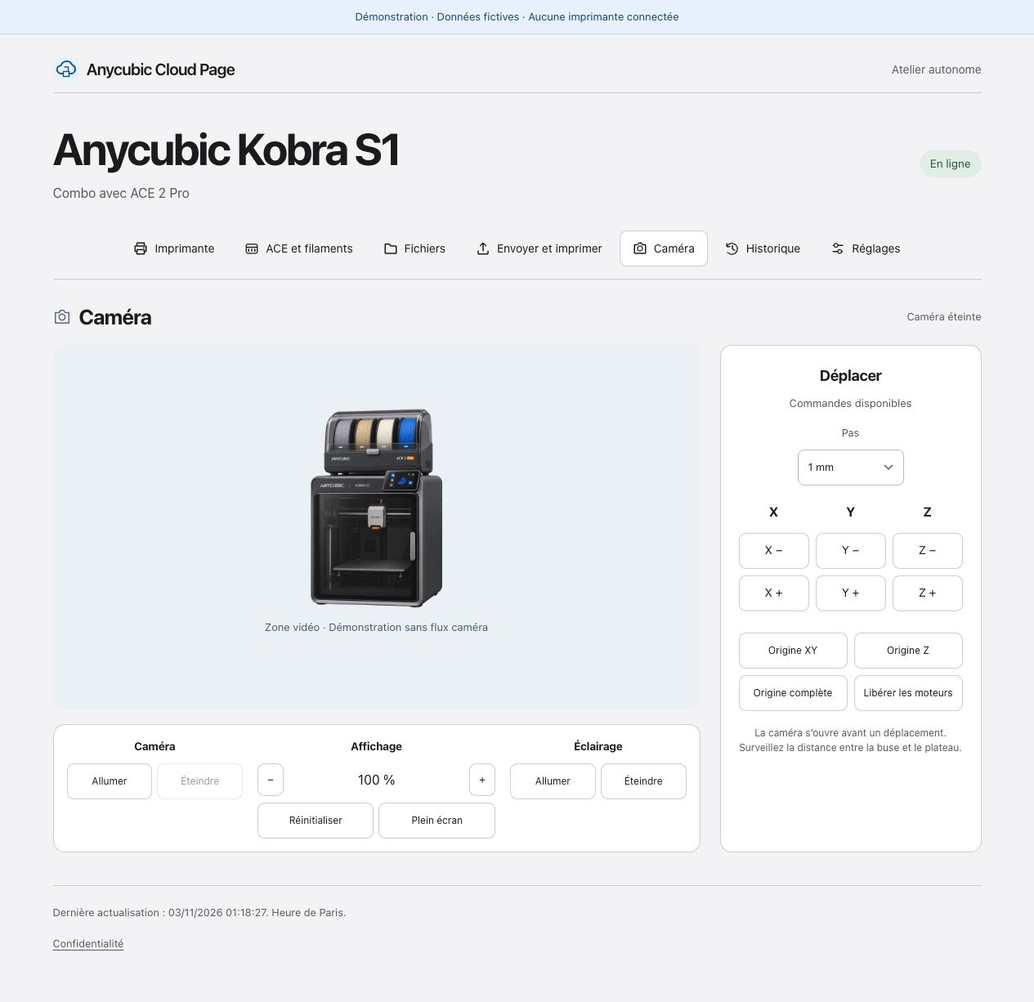
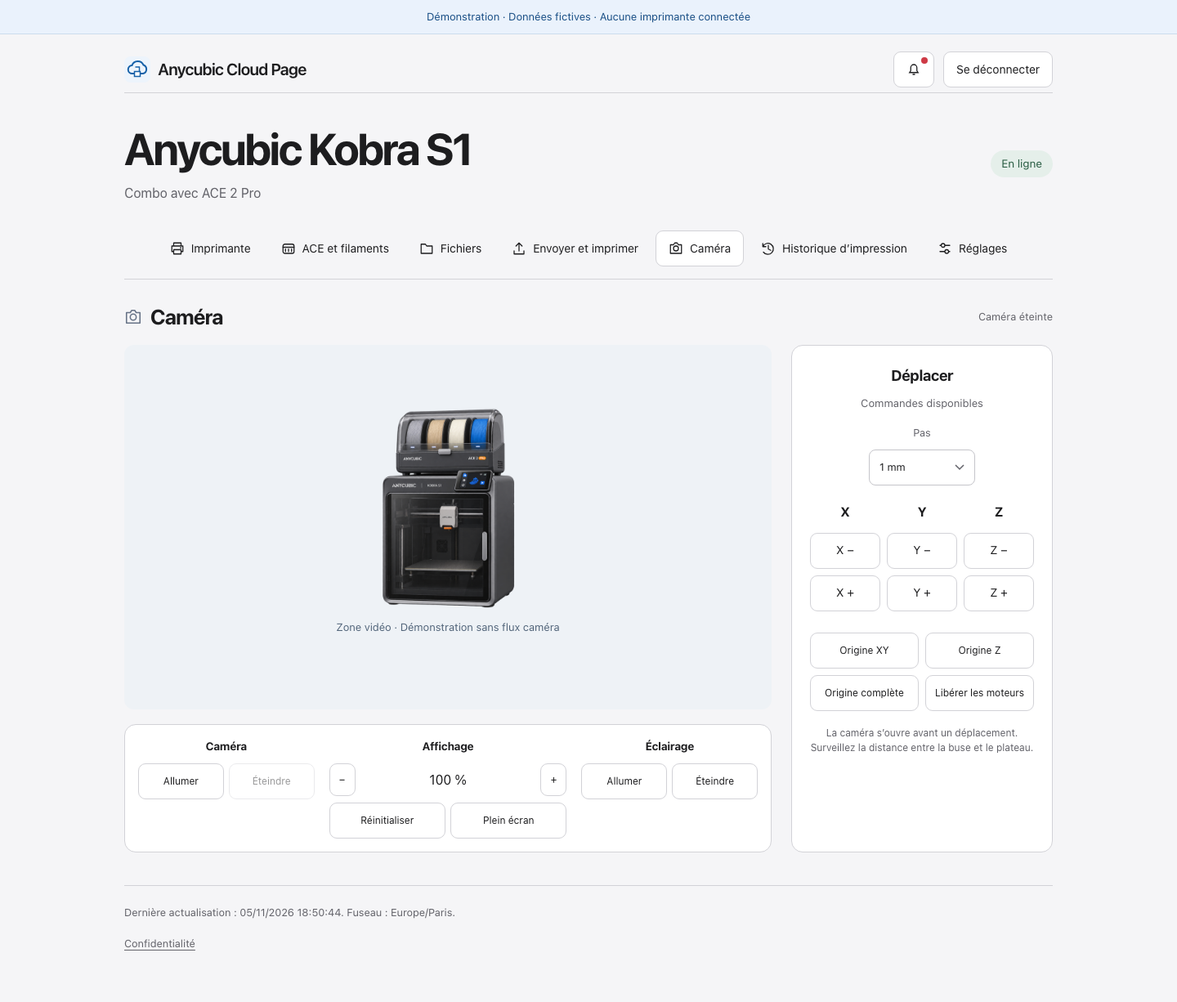
Interface : harmoniser les boutons et actualiser les captures fictives
Fixes #14

Fixes #15

Refs #16, #32

diff --git a/web/imprimante.html b/web/imprimante.html
@@ -1,7 +1,7 @@
-<!doctype html><html lang="fr"><head><meta charset="utf-8"><meta name="viewport" content="width=device-width,initial-scale=1"><meta name="robots" content="noindex,nofollow"><meta name="color-scheme" content="light"><title>Anycubic Cloud Page</title><link rel="icon" href="/icons/cloud-page.svg" type="image/svg+xml"><link rel="apple-touch-icon" href="/icons/cloud-page.svg"><link rel="stylesheet" href="/css/landing.css?v=a49ab0a5a00f"><link rel="stylesheet" href="/css/imprimante.css?v=55086da7788b"></head><body>
-<a class="skip-link" href="#atelier">Aller à l’imprimante</a><div class="shell printer-shell"><nav class="portal-nav" aria-label="Navigation principale"><a class="document-brand" href="/"><img src="/icons/cloud-page.svg" width="32" height="32" alt="" decoding="async"><span>Anycubic Cloud Page</span></a><div class="nav-actions"><label id="printer-selector-wrap" class="printer-selector" hidden><span class="sr-only">Imprimante</span><select id="printer-selector" aria-label="Imprimante"></select></label><div class="notifications"><button id="notifications-toggle" type="button" aria-label="Notifications" aria-expanded="false" aria-controls="notifications-panel"><svg viewBox="0 0 24 24" class="ui-icon" fill="none" stroke="currentColor" stroke-width="1.7" aria-hidden="true"><path d="M5 17h14l-2-3V9a5 5 0 0 0-10 0v5zM10 20h4"/></svg><span id="notifications-dot" class="unread-dot" hidden aria-hidden="true"></span></button><section id="notifications-panel" class="notifications-panel" aria-label="Messages" hidden><div class="notifications-heading"><h2 id="notifications-title">Messages (0)</h2><button id="history-read-all" type="button">Tout marquer comme lu</button></div><div class="notice-filters" role="group" aria-label="Filtrer les messages"><button data-notice-filter="all" aria-pressed="true" type="button">Tous</button><button data-notice-filter="unread" aria-pressed="false" type="button">Non lu <span id="notifications-filter-dot" class="unread-dot" hidden aria-hidden="true"></span></button><button data-notice-filter="read" aria-pressed="false" type="button">Lu</button></div><label class="notice-search"><span aria-hidden="true">⌕</span><span class="sr-only">Rechercher un message par nom de fichier</span><input id="notification-search" type="search" placeholder="Nom de fichier"></label><p id="history-state" role="status"></p><ol id="history-list" class="notification-list"></ol><button id="history-delete-all" type="button" class="danger">Supprimer tous les messages</button><button id="notifications-more" type="button" hidden>Charger les messages suivants</button></section></div><form action="/logout" method="post" class="logout-form"><button type="submit">Se déconnecter</button></form></div></nav>
+<!doctype html><html lang="fr"><head><meta charset="utf-8"><meta name="viewport" content="width=device-width,initial-scale=1"><meta name="robots" content="noindex,nofollow"><meta name="color-scheme" content="light"><title>Anycubic Cloud Page</title><link rel="icon" href="/icons/cloud-page.svg" type="image/svg+xml"><link rel="apple-touch-icon" href="/icons/cloud-page.svg"><link rel="stylesheet" href="/css/landing.css?v=a49ab0a5a00f"><link rel="stylesheet" href="/css/imprimante.css?v=f6407560130c"></head><body>
+<a class="skip-link" href="#atelier">Aller à l’imprimante</a><div class="shell printer-shell"><nav class="portal-nav" aria-label="Navigation principale"><a class="document-brand" href="/"><img src="/icons/cloud-page.svg" width="32" height="32" alt="" decoding="async"><span>Anycubic Cloud Page</span></a><div class="nav-actions"><label id="printer-selector-wrap" class="printer-selector" hidden><span class="sr-only">Imprimante</span><select id="printer-selector" aria-label="Imprimante"></select></label><div class="notifications"><button id="notifications-toggle" type="button" aria-label="Notifications" aria-expanded="false" aria-controls="notifications-panel"><svg viewBox="0 0 24 24" class="ui-icon" fill="none" stroke="currentColor" stroke-width="1.7" aria-hidden="true"><path d="M5 17h14l-2-3V9a5 5 0 0 0-10 0v5zM10 20h4"/></svg><span id="notifications-dot" class="unread-dot" hidden aria-hidden="true"></span></button><section id="notifications-panel" class="notifications-panel" aria-label="Messages" hidden><div class="notifications-heading"><h2 id="notifications-title">Messages (0)</h2><button id="history-read-all" type="button">Tout marquer comme lu</button></div><div class="notice-filters" role="group" aria-label="Filtrer les messages"><button data-notice-filter="all" aria-pressed="true" type="button">Tous</button><button data-notice-filter="unread" aria-pressed="false" type="button">Non lu <span id="notifications-filter-dot" class="unread-dot" hidden aria-hidden="true"></span></button><button data-notice-filter="read" aria-pressed="false" type="button">Lu</button></div><label class="notice-search"><svg viewBox="0 0 24 24" fill="none" stroke="currentColor" stroke-width="1.6" aria-hidden="true"><circle cx="10" cy="10" r="6"/><path d="m15 15 5 5"/></svg><span class="sr-only">Rechercher un message par nom de fichier</span><input id="notification-search" type="search" placeholder="Nom de fichier"></label><p id="history-state" role="status"></p><ol id="history-list" class="notification-list"></ol><button id="history-delete-all" type="button" class="danger">Supprimer tous les messages</button><button id="notifications-more" type="button" hidden>Charger les messages suivants</button></section></div><form action="/logout" method="post" class="logout-form"><button type="submit">Se déconnecter</button></form></div></nav>
 <header class="atelier-title"><div><h1>Anycubic Kobra S1</h1><p>Combo avec ACE 2 Pro</p></div><div><span id="connection" class="badge">Connexion…</span></div></header>
-<nav class="atelier-tabs" aria-label="Sections de l’imprimante"><button type="button" data-tab="overview" aria-current="page"><svg class="ui-icon" viewBox="0 0 24 24" fill="none" stroke="currentColor" stroke-width="1.7" stroke-linecap="round" stroke-linejoin="round" aria-hidden="true"><path d="M6 8V3h12v5M6 17H3V8h18v9h-3M6 14h12v7H6z"/><path d="M17 11h1"/></svg><span>Imprimante</span></button><button type="button" data-tab="ace"><svg class="ui-icon" viewBox="0 0 24 24" fill="none" stroke="currentColor" stroke-width="1.7" stroke-linecap="round" stroke-linejoin="round" aria-hidden="true"><rect x="3" y="5" width="18" height="15" rx="3"/><path d="M3 10h18M7 13v4m5-4v4m5-4v4"/></svg><span>ACE et filaments</span></button><button type="button" data-tab="files"><svg class="ui-icon" viewBox="0 0 24 24" fill="none" stroke="currentColor" stroke-width="1.7" stroke-linecap="round" stroke-linejoin="round" aria-hidden="true"><path d="M3 7V5h7l2 3h9v12H3z"/></svg><span>Fichiers</span></button><button type="button" data-tab="upload"><svg class="ui-icon" viewBox="0 0 24 24" fill="none" stroke="currentColor" stroke-width="1.7" stroke-linecap="round" stroke-linejoin="round" aria-hidden="true"><path d="M12 16V3m-5 5 5-5 5 5M4 16v5h16v-5"/></svg><span>Envoyer et imprimer</span></button><button type="button" data-tab="camera"><svg class="ui-icon" viewBox="0 0 24 24" fill="none" stroke="currentColor" stroke-width="1.7" stroke-linecap="round" stroke-linejoin="round" aria-hidden="true"><path d="M8 6l2-3h4l2 3h5v14H3V6z"/><circle cx="12" cy="12" r="4"/></svg><span>Caméra</span></button><button type="button" data-tab="history"><svg class="ui-icon" viewBox="0 0 24 24" fill="none" stroke="currentColor" stroke-width="1.7" stroke-linecap="round" stroke-linejoin="round" aria-hidden="true"><path d="M3 4v5h5M3 9a9 9 0 1 1 1 9M12 7v6l4 2"/></svg><span>Historique</span></button><button type="button" data-tab="settings"><svg class="ui-icon" viewBox="0 0 24 24" fill="none" stroke="currentColor" stroke-width="1.7" stroke-linecap="round" stroke-linejoin="round" aria-hidden="true"><path d="M4 7h16M4 17h16"/><circle cx="9" cy="7" r="3" fill="white"/><circle cx="15" cy="17" r="3" fill="white"/></svg><span>Réglages</span></button></nav>
+<nav class="atelier-tabs" aria-label="Sections de l’imprimante"><button type="button" data-tab="overview" aria-current="page"><svg class="ui-icon" viewBox="0 0 24 24" fill="none" stroke="currentColor" stroke-width="1.7" stroke-linecap="round" stroke-linejoin="round" aria-hidden="true"><path d="M6 8V3h12v5M6 17H3V8h18v9h-3M6 14h12v7H6z"/><path d="M17 11h1"/></svg><span>Imprimante</span></button><button type="button" data-tab="ace"><svg class="ui-icon" viewBox="0 0 24 24" fill="none" stroke="currentColor" stroke-width="1.7" stroke-linecap="round" stroke-linejoin="round" aria-hidden="true"><rect x="3" y="5" width="18" height="15" rx="3"/><path d="M3 10h18M7 13v4m5-4v4m5-4v4"/></svg><span>ACE et filaments</span></button><button type="button" data-tab="files"><svg class="ui-icon" viewBox="0 0 24 24" fill="none" stroke="currentColor" stroke-width="1.7" stroke-linecap="round" stroke-linejoin="round" aria-hidden="true"><path d="M3 7V5h7l2 3h9v12H3z"/></svg><span>Fichiers</span></button><button type="button" data-tab="upload"><svg class="ui-icon" viewBox="0 0 24 24" fill="none" stroke="currentColor" stroke-width="1.7" stroke-linecap="round" stroke-linejoin="round" aria-hidden="true"><path d="M12 16V3m-5 5 5-5 5 5M4 16v5h16v-5"/></svg><span>Envoyer et imprimer</span></button><button type="button" data-tab="camera"><svg class="ui-icon" viewBox="0 0 24 24" fill="none" stroke="currentColor" stroke-width="1.7" stroke-linecap="round" stroke-linejoin="round" aria-hidden="true"><path d="M8 6l2-3h4l2 3h5v14H3V6z"/><circle cx="12" cy="12" r="4"/></svg><span>Caméra</span></button><button type="button" data-tab="history"><svg class="ui-icon" viewBox="0 0 24 24" fill="none" stroke="currentColor" stroke-width="1.7" stroke-linecap="round" stroke-linejoin="round" aria-hidden="true"><path d="M3 4v5h5M3 9a9 9 0 1 1 1 9M12 7v6l4 2"/></svg><span>Historique d’impression</span></button><button type="button" data-tab="settings"><svg class="ui-icon" viewBox="0 0 24 24" fill="none" stroke="currentColor" stroke-width="1.7" stroke-linecap="round" stroke-linejoin="round" aria-hidden="true"><path d="M4 7h16M4 17h16"/><circle cx="9" cy="7" r="3" fill="white"/><circle cx="15" cy="17" r="3" fill="white"/></svg><span>Réglages</span></button></nav>
 <div id="message" class="notice" role="status" hidden><span id="message-text"></span><button type="button" id="message-close" aria-label="Fermer le message">Fermer</button></div><main id="atelier">
 <section id="tab-overview" class="tab-panel"><div class="overview-grid"><div class="product"><img src="/icons/kobra-s1-ace2pro.png" alt="Kobra S1 Combo avec ACE 2 Pro" width="380" height="380"></div><div class="overview-content"><div class="job-heading"><div><p id="printer-status" class="status">Chargement…</p><h2 id="job-name" tabindex="0">L’imprimante se connecte.</h2><p id="job-state" class="muted"></p></div><img id="job-preview" alt="Aperçu de l’impression" hidden></div><div id="job-progress-wrap" hidden><label for="job-progress">Progression <strong id="job-progress-text"></strong></label><progress id="job-progress" value="0" max="100"></progress></div><dl id="job-stats" class="stats"></dl><div class="actions"><button data-command="pause" data-confirm="Mettre l’impression en pause ?"><svg class="ui-icon" viewBox="0 0 24 24" fill="none" stroke="currentColor" stroke-width="1.7" stroke-linecap="round" stroke-linejoin="round" aria-hidden="true"><path d="M8 5v14M16 5v14"/></svg><span>Pause</span></button><button data-command="resume" data-confirm="Reprendre l’impression ?"><svg class="ui-icon" viewBox="0 0 24 24" fill="none" stroke="currentColor" stroke-width="1.7" stroke-linecap="round" stroke-linejoin="round" aria-hidden="true"><path d="m8 4 12 8-12 8z"/></svg><span>Reprendre</span></button><button class="danger" data-command="cancel" data-confirm="Arrêter l’impression en cours ? Cette action ne reprend pas le travail arrêté."><svg class="ui-icon" viewBox="0 0 24 24" fill="none" stroke="currentColor" stroke-width="1.7" stroke-linecap="round" stroke-linejoin="round" aria-hidden="true"><rect x="5" y="5" width="14" height="14" rx="2"/></svg><span>Arrêter</span></button><button type="button" id="task-details-open" title="Consulter les dimensions, la consommation et les paramètres du G-code."><svg class="ui-icon" viewBox="0 0 24 24" fill="none" stroke="currentColor" stroke-width="1.7" aria-hidden="true"><circle cx="12" cy="12" r="9"/><path d="M12 11v6m0-10v1"/></svg><span>Détails</span></button></div></div></div><div class="printer-lower-grid"><section><h2 class="icon-heading"><svg class="ui-icon" viewBox="0 0 24 24" fill="none" stroke="currentColor" stroke-width="1.7" stroke-linecap="round" stroke-linejoin="round" aria-hidden="true"><path d="M9 14.5V5a3 3 0 0 1 6 0v9.5a5 5 0 1 1-6 0Z"/><path d="M12 8v10"/></svg><span>Températures et ventilation</span></h2><dl id="temperatures" class="metrics"></dl></section><section><h2 class="icon-heading"><svg class="ui-icon" viewBox="0 0 24 24" fill="none" stroke="currentColor" stroke-width="1.7" stroke-linecap="round" stroke-linejoin="round" aria-hidden="true"><circle cx="12" cy="12" r="9"/><path d="M12 11v6m0-10v1"/></svg><span>Détails de l’impression et du matériel</span></h2><dl id="details" class="detail-list"></dl></section></div><section class="temperature-section" aria-label="Historique des températures"><div class="section-title"><div><h2 class="icon-heading"><svg class="ui-icon" viewBox="0 0 24 24" fill="none" stroke="currentColor" stroke-width="1.7" aria-hidden="true"><path d="M3 3v18h18M5 16l5-6 4 3 6-8"/></svg><span>Courbes de température</span></h2><p class="muted" id="temperature-note">Les relevés sont conservés pendant 24 heures sur la page web.</p></div><div class="chart-period"><select id="temperature-hours" aria-label="Période des courbes"><option value="1">Période : 1 heure</option><option value="6">Période : 6 heures</option><option value="24">Période : 24 heures</option></select></div></div><div class="temperature-charts"><article class="temperature-card"><div class="temperature-card-title"><h3>Buse</h3><strong id="temperature-nozzle-current">—</strong></div><div id="chart-nozzle" class="temperature-plot"></div></article><article class="temperature-card"><div class="temperature-card-title"><h3>Plateau</h3><strong id="temperature-bed-current">—</strong></div><div id="chart-bed" class="temperature-plot"></div></article><article class="temperature-card"><div class="temperature-card-title"><h3>ACE 2 Pro</h3><strong id="temperature-ace-current">—</strong></div><div id="chart-ace" class="temperature-plot"></div></article></div></section></section>
 <section id="tab-ace" class="tab-panel" hidden><div class="overview-grid ace-overview"><div class="product"><img src="/icons/ace2pro.png" width="380" height="300" alt="Module quatre bobines Anycubic ACE 2 Pro"></div><div class="overview-content"><p id="ace-status" class="status">Connexion au module…</p><h2>ACE 2 Pro</h2><p class="muted">Quatre emplacements de filament et séchage intégré.</p><dl id="ace-stats" class="stats"></dl><div class="actions"><button type="button" id="go-spool"><svg class="ui-icon" viewBox="0 0 24 24" fill="none" stroke="currentColor" stroke-width="1.7" stroke-linecap="round" stroke-linejoin="round" aria-hidden="true"><circle cx="12" cy="12" r="9"/><circle cx="12" cy="12" r="3"/><path d="M21 12v9h-5"/></svg><span>Configurer une bobine</span></button><button type="button" id="go-drying"><svg class="ui-icon" viewBox="0 0 24 24" fill="none" stroke="currentColor" stroke-width="1.7" stroke-linecap="round" stroke-linejoin="round" aria-hidden="true"><path d="M6 21c-6-6 6-9 0-15M12 21c-6-6 6-9 0-15M18 21c-6-6 6-9 0-15"/></svg><span>Régler le séchage</span></button></div></div></div><h2 class="icon-heading"><svg class="ui-icon" viewBox="0 0 24 24" fill="none" stroke="currentColor" stroke-width="1.7" stroke-linecap="round" stroke-linejoin="round" aria-hidden="true"><circle cx="12" cy="12" r="9"/><circle cx="12" cy="12" r="3"/><path d="M21 12v9h-5"/></svg><span>Filaments</span></h2><div id="spools" class="slots"></div></section>
@@ -9,7 +9,7 @@
 <form id="files-form" class="file-toolbar"><label>Dossier<input id="file-path" value="/" autocomplete="off"></label><button type="submit">Actualiser la liste</button><button type="button" id="parent-folder">Dossier parent</button></form><p id="files-state" class="muted">Sélectionnez une source puis actualisez la liste.</p><div class="table-scroll" role="region" aria-label="Liste des fichiers" tabindex="0"><table><thead><tr><th scope="col">Fichier</th><th scope="col">Taille</th><th scope="col">Actions</th></tr></thead><tbody id="file-rows"></tbody></table></div><div class="actions"><button id="prev-page">Page précédente</button><span id="cloud-page"></span><button id="next-page">Page suivante</button></div><form id="file-mapping-form" class="form-panel"><label>Ordre des bobines pour l’impression<input id="file-slots" placeholder="Exemple : 1, 3, 2" autocomplete="off"></label><p class="muted">Un emplacement par couleur, dans l’ordre du G-code.</p></form></section>
 <section id="tab-upload" class="tab-panel" hidden><div class="section-title"><div><h2 class="icon-heading"><svg class="ui-icon" viewBox="0 0 24 24" fill="none" stroke="currentColor" stroke-width="1.7" aria-hidden="true"><path d="M12 16V3m-5 5 5-5 5 5M4 16v5h16v-5"/></svg><span>Envoyer et imprimer</span></h2><p class="muted">Ajoutez un G-code au cloud ou envoyez-le à l’imprimante.</p></div></div><form id="upload-form" class="form-panel"><label class="upload-file">Fichier G-code<span class="muted">Choisissez un fichier .gcode de 100 Mo maximum.</span><input name="file" type="file" accept=".gcode" required></label><div class="upload-options"><label>Action<select name="mode"><option value="upload">Enregistrer dans le cloud, sans imprimer</option><option value="save-print">Envoyer, conserver dans le cloud et imprimer</option><option value="temp-print">Envoyer et imprimer, sans conservation dans le cloud</option></select></label><label>Ordre des bobines<input name="slots" placeholder="Exemple : 1, 3, 2"></label></div><p class="muted">Indiquez un emplacement de l’ACE par couleur, dans l’ordre du G-code.</p><button type="submit" class="primary">Envoyer</button><p id="upload-state" role="status"></p></form></section>
 <section id="tab-camera" class="tab-panel" hidden><div class="camera-heading"><h2 class="icon-heading"><svg class="ui-icon" viewBox="0 0 24 24" fill="none" stroke="currentColor" stroke-width="1.7" stroke-linecap="round" stroke-linejoin="round" aria-hidden="true"><path d="M8 6l2-3h4l2 3h5v14H3V6z"/><circle cx="12" cy="12" r="4"/></svg><span>Caméra</span></h2><p id="camera-state" role="status">Caméra éteinte</p></div><div class="camera-layout"><div class="camera-stage"><div id="camera-wrapper"><div id="camera-video"></div></div></div><aside class="camera-controls" aria-label="Commandes de la caméra"><div class="camera-control-group"><h3>Caméra</h3><div class="camera-buttons"><button id="camera-start">Allumer</button><button id="camera-stop" disabled>Éteindre</button></div></div><div class="camera-control-group"><h3>Affichage</h3><div class="camera-zoom"><button id="zoom-out" aria-label="Réduire le zoom">−</button><span id="zoom-label">100 %</span><button id="zoom-in" aria-label="Augmenter le zoom">+</button></div><div class="camera-buttons"><button id="zoom-reset">Réinitialiser</button><button id="fullscreen">Plein écran</button></div></div><div class="camera-control-group"><h3>Éclairage</h3><div class="camera-buttons"><button id="light-on">Allumer</button><button id="light-off">Éteindre</button></div></div></aside><section class="axis-card form-panel"><div class="section-title"><div><h3>Déplacer</h3><p id="axis-state" class="muted">En attente de l’imprimante</p></div><label>Pas<select id="axis-step"><option value="1">1 mm</option><option value="15">15 mm</option><option value="50">50 mm</option></select></label></div><div class="axis-grid"><div><h4>X</h4><button type="button" data-axis="1" data-direction="0" title="Déplacer la tête vers X négatif.">X −</button><button type="button" data-axis="1" data-direction="1" title="Déplacer la tête vers X positif.">X +</button></div><div><h4>Y</h4><button type="button" data-axis="2" data-direction="0" title="Déplacer la tête vers Y négatif.">Y −</button><button type="button" data-axis="2" data-direction="1" title="Déplacer la tête vers Y positif.">Y +</button></div><div><h4>Z</h4><button type="button" data-axis="3" data-direction="0" title="Déplacer le plateau dans le sens Z négatif de la Kobra S1.">Z −</button><button type="button" data-axis="3" data-direction="1" title="Déplacer le plateau dans le sens Z positif de la Kobra S1.">Z +</button></div></div><div class="actions axis-home"><button type="button" data-axis="4" data-direction="2" title="Référencer les axes X et Y.">Origine XY</button><button type="button" data-axis="3" data-direction="2" title="Référencer l’axe Z.">Origine Z</button><button type="button" data-axis="5" data-direction="2" title="Référencer les trois axes.">Origine complète</button><button type="button" id="axis-release" title="Désactiver les moteurs pour permettre un déplacement manuel.">Libérer les moteurs</button></div><p class="settings-help">La caméra s’ouvre avant un déplacement. Surveillez la distance entre la buse et le plateau.</p></section></div><section class="form-panel timelapse-panel" hidden><div class="section-title"><h3>▣ Timelapse</h3><button id="timelapse-load" type="button">Afficher les vidéos</button></div><p id="timelapse-state" class="muted">Les vidéos disponibles seront demandées à l’imprimante.</p><div id="timelapse-list"></div></section></section>
-<section id="tab-history" class="tab-panel" hidden><div class="section-title"><div><h2 class="icon-heading"><svg class="ui-icon" viewBox="0 0 24 24" fill="none" stroke="currentColor" stroke-width="1.7" stroke-linecap="round" stroke-linejoin="round" aria-hidden="true"><path d="M3 4v5h5M3 9a9 9 0 1 1 1 9M12 7v6l4 2"/></svg><span>Historique</span></h2><p class="muted">Vos impressions et les notifications Anycubic.</p></div></div><section id="tasks-section"><div class="history-filters"><div class="history-status" role="group" aria-label="Statut des impressions"><button type="button" data-task-status="all" aria-pressed="true">Tout</button><button type="button" data-task-status="2" aria-pressed="false">Terminé</button><button type="button" data-task-status="3" aria-pressed="false">Arrêté</button><button type="button" data-task-status="1" aria-pressed="false">En cours</button></div><div class="history-search-fields"><label>Appareil<select id="tasks-printer"><option value="all">Tous les appareils</option></select></label><label>Du<input id="tasks-from" type="date"></label><label>Au<input id="tasks-to" type="date"></label><label>Nom du fichier<input id="tasks-search" type="search" placeholder="Rechercher une impression"></label></div></div><div class="history-selection"><label><input id="tasks-select-page" type="checkbox"> Tout sélectionner</label><span id="tasks-selected-count">0 sélection</span><button id="tasks-delete" class="danger" type="button" disabled>Supprimer la sélection</button></div><p id="tasks-state" class="muted" role="status"></p><ol id="tasks-list" class="print-history history-grid"></ol><div class="history-pagination"><span id="tasks-page"></span><button id="tasks-next" type="button">Charger les impressions suivantes</button></div></section></section>
+<section id="tab-history" class="tab-panel" hidden><div class="section-title"><div><h2 class="icon-heading"><svg class="ui-icon" viewBox="0 0 24 24" fill="none" stroke="currentColor" stroke-width="1.7" stroke-linecap="round" stroke-linejoin="round" aria-hidden="true"><path d="M3 4v5h5M3 9a9 9 0 1 1 1 9M12 7v6l4 2"/></svg><span>Historique d’impression</span></h2><p class="muted">Vos impressions, leurs aperçus et leurs détails.</p></div></div><section id="tasks-section"><div class="history-filters"><div class="history-status" role="group" aria-label="Statut des impressions"><button type="button" data-task-status="all" aria-pressed="true">Tout</button><button type="button" data-task-status="2" aria-pressed="false">Terminé</button><button type="button" data-task-status="3" aria-pressed="false">Arrêté</button><button type="button" data-task-status="1" aria-pressed="false">En cours</button></div><div class="history-search-fields"><label>Appareil<select id="tasks-printer"><option value="all">Tous les appareils</option></select></label><label>Du<input id="tasks-from" type="date"></label><label>Au<input id="tasks-to" type="date"></label><label>Nom du fichier<input id="tasks-search" type="search" placeholder="Rechercher une impression"></label></div></div><div class="history-selection"><label><input id="tasks-select-page" type="checkbox"> Tout sélectionner</label><span id="tasks-selected-count">0 sélection</span><button id="tasks-delete" class="danger" type="button" disabled>Supprimer la sélection</button></div><p id="tasks-state" class="muted" role="status"></p><ol id="tasks-list" class="print-history history-grid"></ol><div class="history-pagination"><span id="tasks-page"></span><button id="tasks-next" type="button">Charger les impressions suivantes</button></div></section></section>
 <section id="tab-settings" class="tab-panel" hidden>
 <div class="section-title settings-title"><div><h2 class="icon-heading"><svg class="ui-icon" viewBox="0 0 24 24" fill="none" stroke="currentColor" stroke-width="1.7" stroke-linecap="round" stroke-linejoin="round" aria-hidden="true"><path d="M4 7h16M4 17h16"/><circle cx="9" cy="7" r="3" fill="white"/><circle cx="15" cy="17" r="3" fill="white"/></svg><span>Réglages</span></h2><p class="muted">Votre imprimante, sa connexion et ses préférences.</p></div></div>
 <div class="settings-layout">

diff --git a/web/css/imprimante.css b/web/css/imprimante.css
@@ -105,7 +105,7 @@ dialog h2{overflow-wrap:anywhere}.file-preview-dialog .dialog-top{align-items:fl
 .login-card button{margin-top:12px;min-height:46px}
 .login-note{font-size:.82rem;color:var(--muted);margin:24px 0 0}
 .login-error{padding:12px;border:1px solid #dfb5ad;border-radius:10px;color:#853b31;background:#fff4f1}
-.logout-form{margin:0}.logout-form button{font:inherit;color:var(--muted);background:transparent;border:0;padding:4px;cursor:pointer;text-decoration:underline;text-underline-offset:3px}
+.logout-form{margin:0}
 
 /* La barre conserve la marque à gauche et les actions de session au bord droit. */
 .nav-actions{display:flex;align-items:center;gap:.7rem;margin-left:auto}.portal-nav .logout-form{margin:0}.portal-nav .logout-form button{white-space:nowrap}
@@ -118,7 +118,7 @@ dialog h2{overflow-wrap:anywhere}.file-preview-dialog .dialog-top{align-items:fl
 .notification-delete{flex:0 0 32px;min-height:32px;padding:4px;color:#aa3641;background:transparent;border:1px solid #ead4d7;border-radius:8px}
 
 /* Les cartes conservent un ordre de lecture unique du bureau au mobile. */
-.history-filters{display:grid;gap:16px;margin-bottom:18px}.history-status,.history-selection{display:flex;gap:12px;align-items:center;flex-wrap:wrap}.history-status [aria-pressed=true]{background:#e7f0fc;border-color:#7ba5cf}.history-search-fields{display:grid;grid-template-columns:repeat(4,minmax(0,1fr));gap:12px}.history-search-fields label{display:grid;gap:6px;font-size:.85rem}.history-search-fields input,.history-search-fields select{width:100%;min-width:0}.history-selection{margin:16px 0}.history-selection label{display:flex;align-items:center;gap:6px}.history-selection input,.history-card-select input{width:18px;height:18px}.history-grid{display:grid;grid-template-columns:repeat(auto-fit,minmax(250px,1fr));gap:16px;list-style:none;padding:0}.history-grid .task-history-item{position:relative;display:flex;flex-direction:column;min-width:0;padding:16px;border:1px solid #d9e1eb;border-radius:16px;background:#fff}.history-card-select{align-self:flex-start;margin-bottom:8px}.history-grid .task-thumbnail{width:100%;height:150px}.history-card-body{display:flex;flex-direction:column;gap:8px;margin-top:12px}.history-card-body p{margin:0;font-size:.82rem}.history-card-name{overflow:hidden;text-overflow:ellipsis;white-space:nowrap}.history-badge{align-self:flex-start;border-radius:20px;padding:4px 10px;background:#edf0f3;font-size:.8rem}.history-badge.status-2{background:#e4f3e9;color:#23663d}.history-badge.status-3{background:#f9e6e8;color:#9d2838}.history-badge.status-1{background:#e0edff;color:#225a9b}.history-detail{align-self:flex-start;margin-top:6px}
+.history-filters{display:grid;gap:16px;margin-bottom:18px}.history-status,.history-selection{display:flex;gap:12px;align-items:center;flex-wrap:wrap}.history-status [aria-pressed=true]{background:#e7f0fc;border-color:#7ba5cf}.history-search-fields{display:grid;grid-template-columns:repeat(4,minmax(0,1fr));gap:12px}.history-search-fields label{display:grid;gap:6px;font-size:.85rem}.history-search-fields input,.history-search-fields select{width:100%;min-width:0}.history-selection{margin:16px 0}.history-selection label{display:flex;align-items:center;gap:6px}.history-selection input,.history-card-select input{width:18px;height:18px}.history-grid{display:grid;grid-template-columns:repeat(auto-fit,minmax(250px,1fr));gap:16px;list-style:none;padding:0}.history-grid .task-history-item{position:relative;display:flex;flex-direction:column;min-width:0;padding:16px;border:1px solid #d9e1eb;border-radius:16px;background:#fff}.history-card-select{align-self:flex-start;margin-bottom:8px}.history-grid .task-thumbnail{width:100%;height:150px}.history-card-body{display:flex;flex-direction:column;gap:8px;margin-top:12px}.history-card-body p{margin:0;font-size:.82rem}.history-card-name{overflow:hidden;text-overflow:ellipsis;white-space:nowrap}.history-badge{align-self:flex-start;border-radius:20px;padding:4px 10px;background:#edf0f3;font-size:.8rem}.history-badge.status-2{background:#e4f3e9;color:#23663d}.history-badge.status-3{background:#f9e6e8;color:#9d2838}.history-badge.status-1{background:#e0edff;color:#225a9b}.history-detail{align-self:center;margin-top:6px}
 @media(max-width:640px){.history-search-fields{grid-template-columns:repeat(2,minmax(0,1fr))}.history-grid{grid-template-columns:1fr}}
 
 /* Une boîte dessinée pour l’atelier donne un repère décoratif aux listes vides. */
@@ -126,3 +126,6 @@ dialog h2{overflow-wrap:anywhere}.file-preview-dialog .dialog-top{align-items:fl
 
 /* Le sélecteur disparaît avec une seule machine ; il reste compact dans la barre sur mobile. */
 .printer-selector select{max-width:210px;min-height:36px;padding:5px 8px;font-size:.8rem}.printer-selector[hidden]{display:none}@media(max-width:640px){.printer-selector select{max-width:125px}.portal-nav{flex-wrap:wrap}}
+
+/* Les styles généraux de libellé et de bouton ne doivent ni empiler les filtres ni rogner les aperçus. */
+.history-selection label,.notice-search{flex-direction:row}.history-status [aria-pressed=true],.notice-filters [aria-pressed=true]{color:#204f7b}.history-grid .task-thumbnail{display:flex;align-items:center;justify-content:center;flex:0 0 150px}.history-grid .task-thumbnail img{width:100%;height:132px;max-height:132px;object-fit:contain}.printer-selector select{padding-right:32px}.notice-search svg{width:20px;height:20px;flex:0 0 20px}

diff --git a/screenshots/README.md b/screenshots/README.md
@@ -1,6 +1,6 @@
 # Captures de l’interface
 
-Captures du mode `python app/demo.py`, avec actualisation de la connexion et de la session le 5 novembre 2026. Toutes les données sont fictives. Aucun compte utilisateur, token, identifiant d’imprimante ou flux vidéo privé n’est visible.
+Captures de la démonstration authentifiée, produites avec `scripts/capture_demo.cjs`. Toutes les données sont fictives. Aucun compte utilisateur, token, identifiant d’imprimante ou flux vidéo privé n’est visible.
 
 | Capture | Onglet / détail |
 | --- | --- |
@@ -11,11 +11,11 @@ Captures du mode `python app/demo.py`, avec actualisation de la connexion et de 
 | [03-fichiers.png](03-fichiers.png) | Navigation et actions sur les fichiers. |
 | [04-envoyer-imprimer.png](04-envoyer-imprimer.png) | Envoi de G-code et ordre des bobines. |
 | [05-camera.png](05-camera.png) | Lecteur, éclairage et axes ; illustration de démonstration, pas un flux réel. |
-| [06-historique.png](06-historique.png) | Tâches et aperçus. |
+| [06-historique.png](06-historique.png) | Cartes, statuts, dates, recherche et sélection de fiches. |
 | [07-reglages.png](07-reglages.png) | Connexion, versions et réglages. |
-| [08-notifications.png](08-notifications.png) | Notifications et aperçu associé. |
+| [08-notifications.png](08-notifications.png) | Cloche, compteurs, filtres, recherche et actions sur les messages. |
 | [09-detection-ia.png](09-detection-ia.png) | Fenêtre de détection IA. |
 
-Pour les refaire : lancer le mode démonstration, parcourir chaque onglet dans un navigateur, attendre les aperçus visibles puis enregistrer une capture de page entière. Utiliser une capture de fenêtre pour les modales. Ne pas utiliser le compte réel pour produire les images publiques.
+Pour les refaire : installer les dépendances de développement et Chromium Playwright, puis lancer `node scripts/capture_demo.cjs` depuis la racine. Le script démarre uniquement `app/demo.py --auth`, crée un fichier temporaire de mot de passe fictif et ferme ce serveur après capture. `UI_PYTHON` permet de choisir l’interpréteur Python du projet. Aucun moteur Docker n’est nécessaire.
 
-Les deux nouvelles captures utilisent `python app/demo.py --auth` avec un fichier de mot de passe fictif passé par `WEB_PASSWORD_FILE` et `PUBLIC_ORIGIN` égal à l’origine locale du navigateur. Elles n’utilisent aucun compte réel. Le mode sans `--auth` reste disponible pour explorer les données fictives.
+La capture de session présente deux noms d’imprimantes fictifs pour illustrer le sélecteur. Le navigateur des captures utilise le français. Les modales sont capturées dans la fenêtre ; les onglets en page entière. Ne jamais utiliser un compte réel pour produire les images publiques.

diff --git a/CHANGELOG.md b/CHANGELOG.md
@@ -16,7 +16,7 @@
 
 - Notifications déplacées dans une cloche accessible, avec filtres, recherche et compteur actualisé par le statut habituel (#16).
 
-- Bouton de déconnexion accessible dans la barre du haut ; HOME_URL ne pilote plus que le lien de marque (#14).
+- Bouton de déconnexion accessible, assorti aux autres actions de la barre du haut ; HOME_URL ne pilote plus que le lien de marque (#14).
 
 - Guides complétés pour domaine partagé, rechargement Caddy, contrôles authentifiés, réseau externe, sondes filtrées, recréation et secrets persistants (#6, #7, #8, #9, #10, #11, #12, #13).
 
